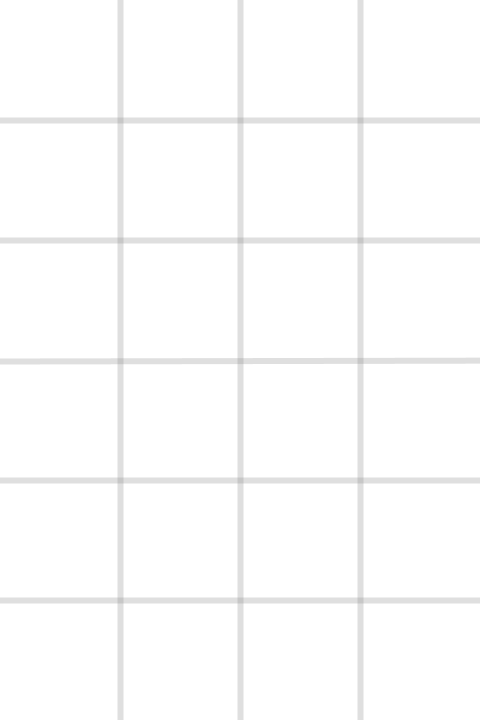
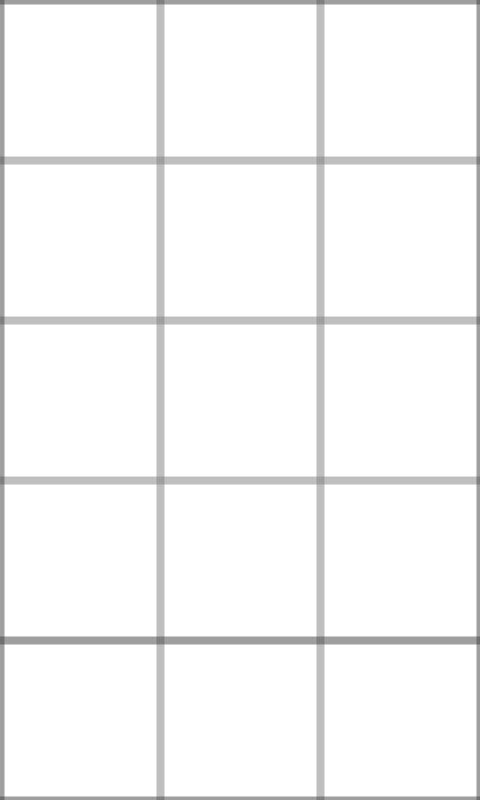
Major update

Changed region(s): [[0.0, 0.0, 1.0, 1.0]]

diff --git a/myris/core/src/dot/empire/myris/screens/ScreenGame.java b/myris/core/src/dot/empire/myris/screens/ScreenGame.java
@@ -25,7 +25,7 @@ public final class ScreenGame extends Screen {
     /**
      * Default block size.
      */
-    private static final int BLOCK_SIZE = 120;
+    private static final int BLOCK_SIZE = 160;
     /**
      * Block colours.
      */
@@ -62,6 +62,12 @@ public final class ScreenGame extends Screen {
 
         addActor(score = new Score());
         reset_();
+
+
+//        blocks[1][1] = 1;
+//        blocks[1][0] = 1;
+//        blocks[0][0] = 2;
+//        Gdx.app.log("" + children(1, 1, 1, LEFT), "");
     }
 
     @Override
@@ -163,6 +169,9 @@ public final class ScreenGame extends Screen {
     }
 
     private void left(int colour, int x, int y) {
+//        if (!children(colour, x, y, LEFT)) {
+//            return;
+//        }
         this.blocks[x][y] = -1;
         if (x != 0 && blocks[x - 1][y] == colour) {
             if (blocks[x - 1][y] == colour) {
@@ -253,6 +262,101 @@ public final class ScreenGame extends Screen {
         }
         addBlock();
         addBlock();
+    }
+
+    // FIXME: 19 Nov 2018 
+    public boolean children(int colour, final int x, final int y, Direction direction) {
+        boolean rtn = true;
+        this.blocks[x][y] = -1;
+        Gdx.app.debug(Myris.TAG, String.format(Locale.ENGLISH, "Child %d (%d;%d)", colour, x, y));
+        if (rtn) {
+            try {
+                int x_ = x + 1, y_ = y;
+                rtn = canMove(colour, x_, y_, direction);
+                if (blocks[x_][y_] == colour) {
+                    if (rtn) {
+                        children(colour, x_, y_, direction);
+                    }
+                }
+            } catch (IndexOutOfBoundsException ignore) {
+            }
+        }
+        if (rtn) {
+            try {
+                int x_ = x - 1, y_ = y;
+                rtn = canMove(colour, x_, y_, direction);
+                if (blocks[x_][y_] == colour) {
+                    if (rtn) {
+                        children(colour, x_, y_, direction);
+                    }
+                }
+            } catch (IndexOutOfBoundsException ignore) {
+            }
+        }
+        if (rtn) {
+            try {
+                int x_ = x, y_ = y - 1;
+                rtn = canMove(colour, x_, y_, direction);
+                if (blocks[x_][y_] == colour) {
+                    if (rtn) {
+                        children(colour, x_, y_, direction);
+                    }
+                }
+            } catch (IndexOutOfBoundsException ignore) {
+            }
+        }
+        if (rtn) {
+            try {
+                int x_ = x + 1, y_ = y;
+                rtn = canMove(colour, x_, y_, direction);
+                if (blocks[x_][y_] == colour) {
+                    if (rtn) {
+                        children(colour, x_, y_, direction);
+                    }
+                }
+            } catch (IndexOutOfBoundsException ignore) {
+            }
+        }
+        if (rtn) {
+            try {
+                int x_ = x, y_ = y + 1;
+                rtn = canMove(colour, x_, y_, direction);
+                if (blocks[x_][y_] == colour) {
+                    if (rtn) {
+                        children(colour, x_, y_, direction);
+                    }
+                }
+            } catch (IndexOutOfBoundsException ignore) {
+            }
+        }
+        this.blocks[x][y] = colour;
+        return rtn;
+    }
+
+    private boolean canMove(int colour, int x, int y, Direction direction) {
+        switch (direction) {
+            case UP:
+                y++;
+                break;
+            case DOWN:
+                y--;
+                break;
+            case LEFT:
+                x--;
+                break;
+            case RIGHT:
+                x++;
+                break;
+        }
+        try {
+            return blocks[x][y] == colour || blocks[x][y] == -1;
+        } catch (IndexOutOfBoundsException ignore) {
+        }
+        return false;
+    }
+
+    protected enum Direction {
+        UP, DOWN, LEFT, RIGHT
     }
 }
 

diff --git a/myris/core/src/dot/empire/myris/Myris.java b/myris/core/src/dot/empire/myris/Myris.java
@@ -15,6 +15,7 @@ import com.badlogic.gdx.graphics.g2d.Sprite;
 import com.badlogic.gdx.graphics.glutils.FrameBuffer;
 import com.badlogic.gdx.graphics.glutils.ShapeRenderer;
 import com.badlogic.gdx.math.MathUtils;
+import com.badlogic.gdx.math.RandomXS128;
 import com.badlogic.gdx.scenes.scene2d.Stage;
 import com.kotcrab.vis.ui.VisUI;
 import dot.empire.myris.gfx.ShaderBatch;
@@ -22,6 +23,7 @@ import dot.empire.myris.screens.ScreenLoading;
 import dot.empire.myris.screens.ScreenSplash;
 import net.dermetfan.gdx.assets.AnnotationAssetManager;
 
+import java.security.SecureRandom;
 import java.util.Locale;
 
 import static com.badlogic.gdx.Application.LOG_DEBUG;
@@ -51,6 +53,13 @@ public final class Myris extends ApplicationAdapter {
     private FrameBuffer fbo;
     private Sprite display;
     private float alpha;
+
+    /**
+     * Default constructor. Most code will be place in the {@link #create()} method.
+     */
+    public Myris() {
+        MathUtils.random = new RandomXS128(new SecureRandom().nextLong());
+    }
 
     @Override
     public void create() {

diff --git a/myris/core/src/dot/empire/myris/SimpleDirectionGestureDetector.java b/myris/core/src/dot/empire/myris/SimpleDirectionGestureDetector.java
@@ -1,5 +1,6 @@
 package dot.empire.myris;
 
+import com.badlogic.gdx.Gdx;
 import com.badlogic.gdx.input.GestureDetector;
 
 // https://stackoverflow.com/questions/15185799/libgdx-get-swipe-up-or-swipe-right-etc
@@ -47,14 +48,18 @@ public class SimpleDirectionGestureDetector extends GestureDetector {
         public boolean fling(float xvel, float yvel, int btn) {
             if (Math.abs(xvel) > Math.abs(yvel)) {
                 if (xvel > 0) {
+                    Gdx.app.debug("Direction Listener", "RIGHT");
                     listener.onRight();
                 } else {
+                    Gdx.app.debug("Direction Listener", "LEFT");
                     listener.onLeft();
                 }
             } else {
                 if (yvel > 0) {
+                    Gdx.app.debug("Direction Listener", "DOWN");
                     listener.onDown();
                 } else {
+                    Gdx.app.debug("Direction Listener", "UP");
                     listener.onUp();
                 }
             }

diff --git a/myris/core/src/dot/empire/myris/gfx/Score.java b/myris/core/src/dot/empire/myris/gfx/Score.java
@@ -7,6 +7,9 @@ import com.kotcrab.vis.ui.widget.VisTable;
 
 import java.util.concurrent.atomic.AtomicLong;
 
+/**
+ * Score Label.
+ */
 public class Score extends VisTable {
 
     private final AtomicLong score;
@@ -25,6 +28,7 @@ public class Score extends VisTable {
         // --
 
         this.lblScore = new VisLabel(score.toString(), Color.BLACK);
+        this.lblScore.setFontScale(2); // FIXME: 18 Nov 2018
         super.align(Align.center).add(lblScore).row();
 
         // super.align(Align.center).add(new VisLabel("Test score", Color.BLACK));
@@ -55,8 +59,10 @@ public class Score extends VisTable {
     }
 
     public void updateScore(int delta) {
+        // TODO: 18 Nov 2018
         // this.tmp.addAndGet(delta);
         // this.valid = false;
+        // --
         this.score.addAndGet(delta);
     }
 

diff --git a/myris/core/src/dot/empire/myris/Screen.java b/myris/core/src/dot/empire/myris/Screen.java
@@ -79,22 +79,22 @@ public abstract class Screen extends VisTable implements Disposable, SimpleDirec
 
     @Override
     public void onLeft() {
-        Gdx.app.debug("Direction Listener", "LEFT");
+        // Gdx.app.debug("Direction Listener", "LEFT");
     }
 
     @Override
     public void onRight() {
-        Gdx.app.debug("Direction Listener", "RIGHT");
+        // Gdx.app.debug("Direction Listener", "RIGHT");
     }
 
     @Override
     public void onUp() {
-        Gdx.app.debug("Direction Listener", "UP");
+        // Gdx.app.debug("Direction Listener", "UP");
     }
 
     @Override
     public void onDown() {
-        Gdx.app.debug("Direction Listener", "DOWN");
+        // Gdx.app.debug("Direction Listener", "DOWN");
     }
 
     /**

diff --git a/myris/core/src/dot/empire/myris/buttons/BtnScore.java b/myris/core/src/dot/empire/myris/buttons/BtnScore.java
@@ -13,6 +13,7 @@ import static dot.empire.myris.Defines.ICO_SCORE;
  * Button to the score screen.
  *
  * @see dot.empire.myris.screens.ScreenScore
+ * @see dot.empire.myris.Defines#ICO_SCORE
  */
 public final class BtnScore extends Button {
 

diff --git a/myris/desktop/src/dot/empire/myris/desktop/DesktopLauncher.java b/myris/desktop/src/dot/empire/myris/desktop/DesktopLauncher.java
@@ -36,7 +36,7 @@ public final class DesktopLauncher {
         cfg.resizable = false;
 
         cfg.width = 480;
-        cfg.height = 720;
+        cfg.height = 800;
 
         cfg.r = 24;
         cfg.g = 24;
